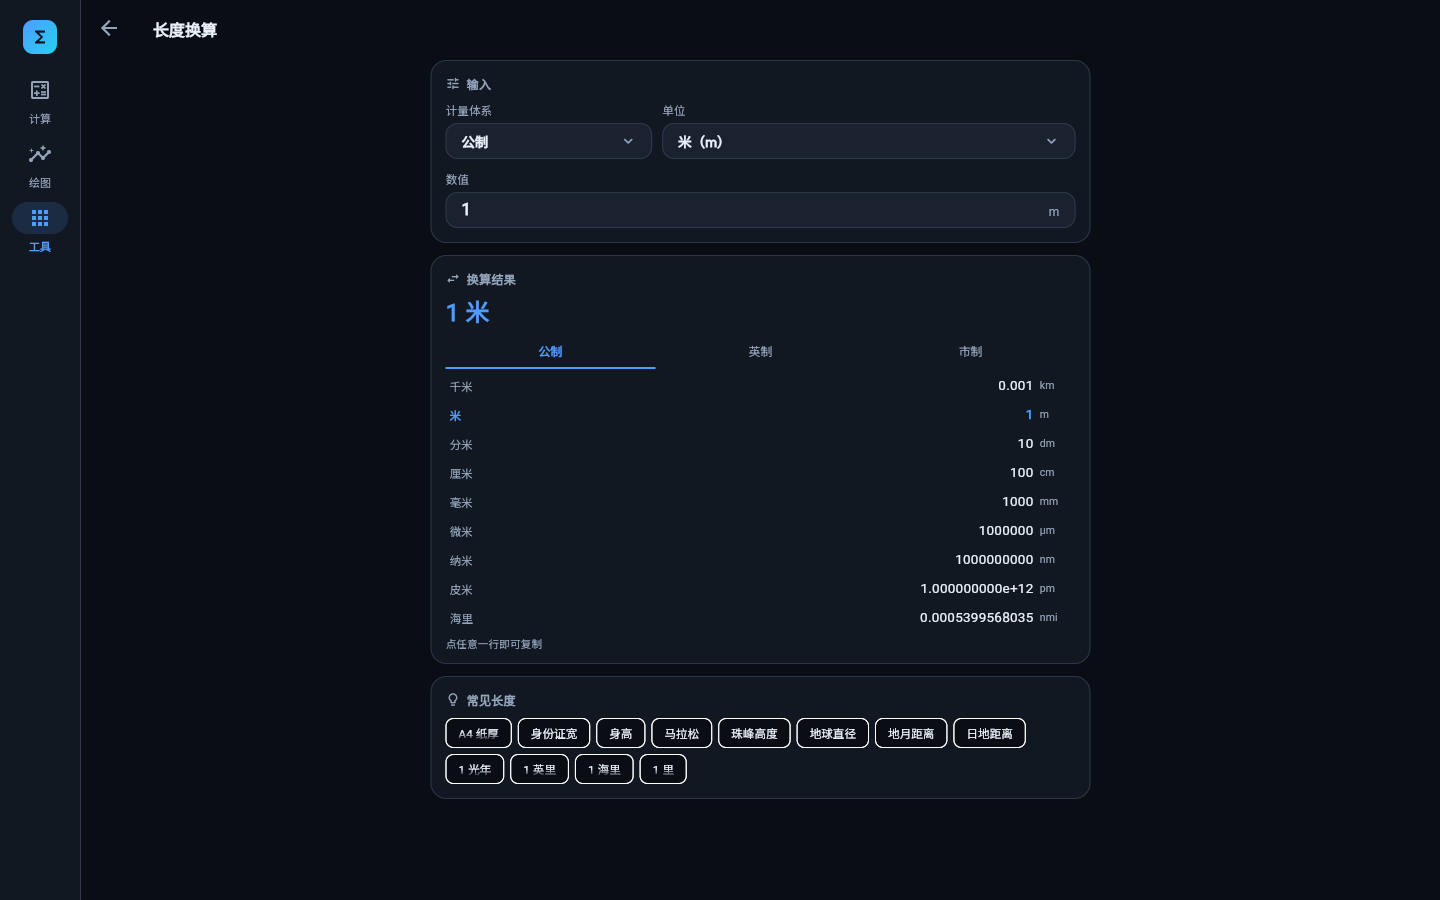
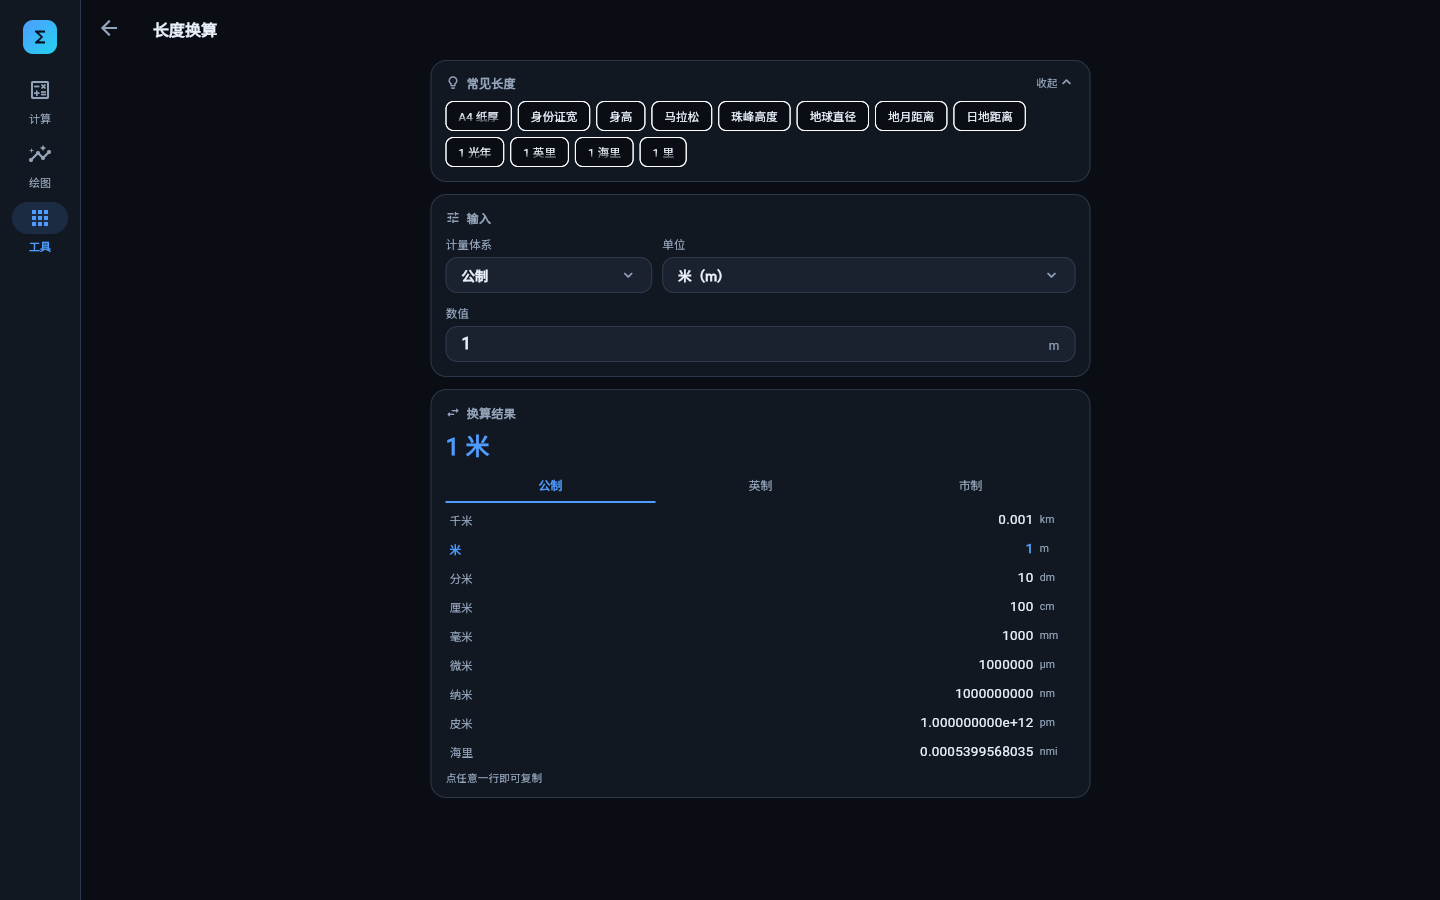
长度换算：「常见长度」移到顶部并支持折叠
- 参照物卡片挪到输入区上方，点标题行（或右上角「收起 / 展开」）折叠，
  折叠后只留一行标题，输入区直接顶上来
- ToolSection 新增可选 onHeaderTap，标题行可点（其他工具不受影响）
- Widget 测试断言参照物在输入上方、折叠后 chip 消失再展开恢复

diff --git a/lib/ui/tools/distance/distance_page.dart b/lib/ui/tools/distance/distance_page.dart
@@ -9,7 +9,7 @@ import '../widgets/tool_select.dart';
 
 /// 长度换算页：公制 / 英制 / 市制共 25 个单位互转，输入即算。
 ///
-/// 上排两个下拉框选「计量体系」和「单位」，下面填数值；
+/// 顶部是可折叠的「常见长度」参照物，下面是「计量体系 / 单位 / 数值」输入；
 /// 结果按体系分成三个 tab，切 tab 不改变输入，只是换个角度看结果。
 class DistancePage extends StatefulWidget {
   const DistancePage({super.key});
@@ -24,6 +24,9 @@ class _DistancePageState extends State<DistancePage>
   DistanceUnit _from = distanceUnitById('m')!;
 
   final TextEditingController _value = TextEditingController(text: '1');
+
+  /// 「常见长度」默认展开，点标题行可折叠起来省空间。
+  bool _samplesExpanded = true;
 
   /// 结果 tab，跟输入单位所在体系联动。
   late final TabController _tabs = TabController(
@@ -116,6 +119,13 @@ class _DistancePageState extends State<DistancePage>
             child: Column(
               crossAxisAlignment: CrossAxisAlignment.stretch,
               children: [
+                _SamplesCard(
+                  expanded: _samplesExpanded,
+                  onToggle: () =>
+                      setState(() => _samplesExpanded = !_samplesExpanded),
+                  onPick: _applySample,
+                ),
+                const SizedBox(height: 12),
                 ToolSection(
                   title: '输入',
                   icon: Icons.tune_rounded,
@@ -221,29 +231,6 @@ class _DistancePageState extends State<DistancePage>
                       ],
                     ),
                   ),
-                const SizedBox(height: 12),
-                ToolSection(
-                  title: '常见长度',
-                  icon: Icons.lightbulb_outline_rounded,
-                  child: Wrap(
-                    spacing: 6,
-                    runSpacing: 6,
-                    children: [
-                      for (final sample in kDistanceSamples)
-                        ActionChip(
-                          label: Text(
-                            sample.label,
-                            style: const TextStyle(fontSize: 11.5),
-                          ),
-                          visualDensity: VisualDensity.compact,
-                          labelPadding: const EdgeInsets.symmetric(
-                            horizontal: 4,
-                          ),
-                          onPressed: () => _applySample(sample),
-                        ),
-                    ],
-                  ),
-                ),
               ],
             ),
           ),
@@ -266,6 +253,65 @@ String _trim(double value) {
     return value.toStringAsFixed(0);
   }
   return value.toString();
+}
+
+/// 常见长度参照物：默认展开，点标题行折叠 / 展开。
+class _SamplesCard extends StatelessWidget {
+  const _SamplesCard({
+    required this.expanded,
+    required this.onToggle,
+    required this.onPick,
+  });
+
+  final bool expanded;
+  final VoidCallback onToggle;
+  final ValueChanged<DistanceSample> onPick;
+
+  @override
+  Widget build(BuildContext context) {
+    return ToolSection(
+      key: const Key('distance-samples'),
+      title: '常见长度',
+      icon: Icons.lightbulb_outline_rounded,
+      onHeaderTap: onToggle,
+      padding: EdgeInsets.fromLTRB(14, 12, 14, expanded ? 14 : 12),
+      trailing: Row(
+        mainAxisSize: MainAxisSize.min,
+        children: [
+          Text(
+            expanded ? '收起' : '展开',
+            style: const TextStyle(
+              color: AppColors.textSecondary,
+              fontSize: 10.5,
+            ),
+          ),
+          Icon(
+            expanded ? Icons.expand_less_rounded : Icons.expand_more_rounded,
+            size: 18,
+            color: AppColors.textSecondary,
+          ),
+        ],
+      ),
+      child: expanded
+          ? Wrap(
+              spacing: 6,
+              runSpacing: 6,
+              children: [
+                for (final sample in kDistanceSamples)
+                  ActionChip(
+                    label: Text(
+                      sample.label,
+                      style: const TextStyle(fontSize: 11.5),
+                    ),
+                    visualDensity: VisualDensity.compact,
+                    labelPadding: const EdgeInsets.symmetric(horizontal: 4),
+                    onPressed: () => onPick(sample),
+                  ),
+              ],
+            )
+          : const SizedBox.shrink(),
+    );
+  }
 }
 
 /// 结果区的三个 tab：公制 / 英制 / 市制。

diff --git a/lib/ui/tools/widgets/tool_field.dart b/lib/ui/tools/widgets/tool_field.dart
@@ -87,6 +87,7 @@ class ToolSection extends StatelessWidget {
     this.title,
     this.icon,
     this.trailing,
+    this.onHeaderTap,
     this.padding = const EdgeInsets.all(14),
   });
 
@@ -95,6 +96,9 @@ class ToolSection extends StatelessWidget {
   final IconData? icon;
   final Widget? trailing;
   final EdgeInsetsGeometry padding;
+
+  /// 点击标题行时的回调（传了就把标题行做成可点，用于折叠 / 展开）。
+  final VoidCallback? onHeaderTap;
 
   @override
   Widget build(BuildContext context) {
@@ -109,23 +113,27 @@ class ToolSection extends StatelessWidget {
         crossAxisAlignment: CrossAxisAlignment.stretch,
         children: [
           if (title != null) ...[
-            Row(
-              children: [
-                if (icon != null) ...[
-                  Icon(icon, size: 15, color: AppColors.textSecondary),
-                  const SizedBox(width: 6),
-                ],
-                Text(
-                  title!,
-                  style: const TextStyle(
-                    fontSize: 12,
-                    fontWeight: FontWeight.w600,
-                    color: AppColors.textSecondary,
+            InkWell(
+              onTap: onHeaderTap,
+              borderRadius: BorderRadius.circular(8),
+              child: Row(
+                children: [
+                  if (icon != null) ...[
+                    Icon(icon, size: 15, color: AppColors.textSecondary),
+                    const SizedBox(width: 6),
+                  ],
+                  Text(
+                    title!,
+                    style: const TextStyle(
+                      fontSize: 12,
+                      fontWeight: FontWeight.w600,
+                      color: AppColors.textSecondary,
+                    ),
                   ),
-                ),
-                const Spacer(),
-                ?trailing,
-              ],
+                  const Spacer(),
+                  ?trailing,
+                ],
+              ),
             ),
             const SizedBox(height: 10),
           ],

diff --git a/test/widget_test.dart b/test/widget_test.dart
@@ -449,6 +449,24 @@ void main() {
     expect(find.byType(DistancePage), findsOneWidget);
     expect(find.byType(NavigationRail), findsOneWidget);
 
+    // 「常见长度」在最上方，默认展开，点标题行可折叠隐藏
+    final samplesY = tester
+        .getTopLeft(find.byKey(const Key('distance-samples')))
+        .dy;
+    final inputY = tester.getTopLeft(find.text('输入')).dy;
+    expect(samplesY, lessThan(inputY));
+    expect(find.text('A4 纸厚'), findsOneWidget);
+    expect(find.text('收起'), findsOneWidget);
+    await tester.tap(find.text('收起'));
+    await tester.pumpAndSettle();
+    expect(find.text('A4 纸厚'), findsNothing);
+    expect(find.text('展开'), findsOneWidget);
+    // 折叠后输入区仍在原位（不因隐藏参照物而消失）
+    expect(find.byKey(const Key('distance-system')), findsOneWidget);
+    await tester.tap(find.text('展开'));
+    await tester.pumpAndSettle();
+    expect(find.text('A4 纸厚'), findsOneWidget);
+
     // 计量体系 / 单位都是下拉框，放在数值上方
     expect(find.byKey(const Key('distance-system')), findsOneWidget);
     expect(find.byKey(const Key('distance-unit')), findsOneWidget);
